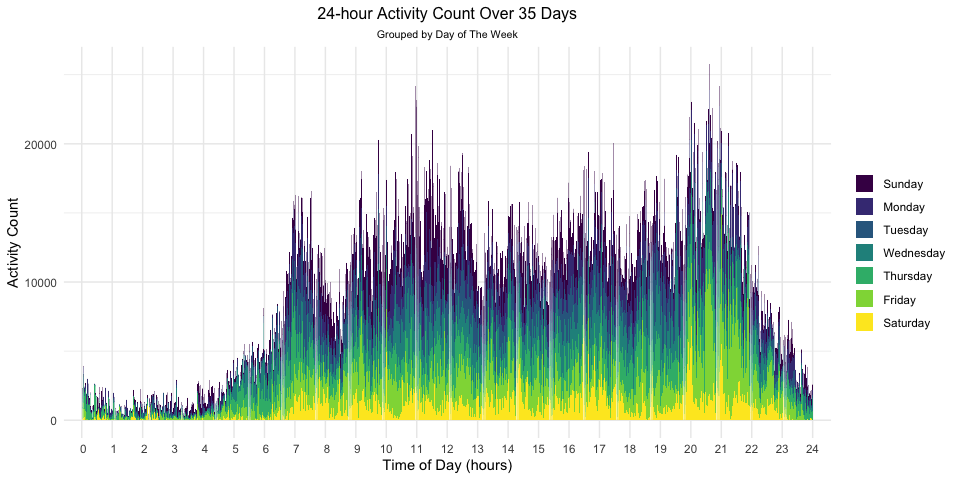
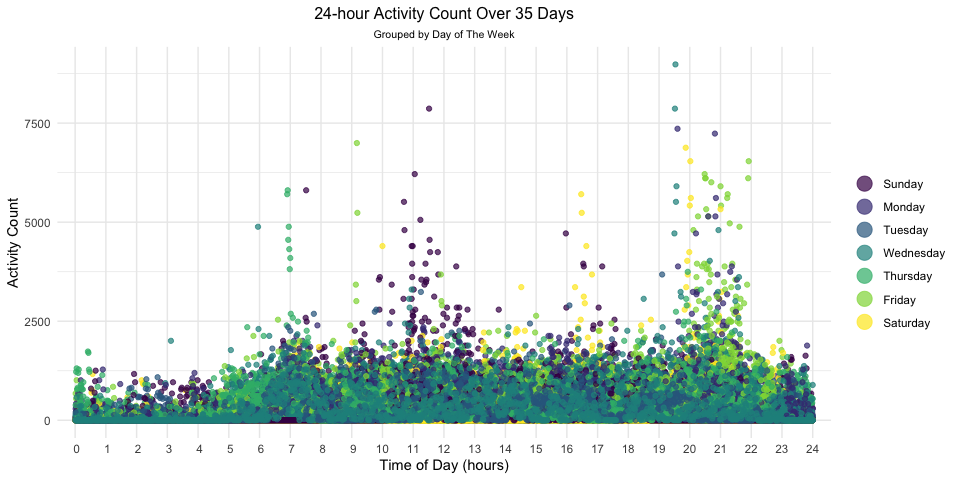
Fixed various issues with problem 3b graph y-axis range and portions which was missed. Final revisions done

diff --git a/p8105_hw3_ksw2137.md b/p8105_hw3_ksw2137.md
@@ -52,10 +52,7 @@ likely of particular importance:
   - `department`: the name of the department (canned goods, snacks,
     frozen, …)
 
-### Problem 1a - Making Graph for Top Aisle Categories
-
-This dataset is huge as indicated previously. As such, we have to filter
-out some things in the interest of efficiency.
+### Problem 1a - Graph of Top Aisle Categories
 
 ``` r
 # modifies source df to further process for ggplot
@@ -77,7 +74,8 @@ the top 39 most ordered categories.
 aisle_item_count %>% 
   filter(aisle_order_count > 10000) %>%                          # filters to contain counts > 10,000
   
-  ggplot(aes(x = reorder(aisle, aisle_order_count),              # make a plot of count vs aisle category
+# make a plot of count vs aisle category
+  ggplot(aes(x = reorder(aisle, aisle_order_count),              # reorders aisle (factor) by using count as ref
              y = aisle_order_count, 
              fill = -aisle_order_count)                          # set fill based on count in decreasing order
          ) +
@@ -105,11 +103,6 @@ to least, we can see a huge gap between the top ~5 versus the rest. In
 the graph, there are a total of 39 items.
 
 ### Problem 1b - Table for Top 3 Items in Particular Aisles
-
-We are also interested in the top 3 items in the “Baking Ingredients”,
-“Dog Food Care”, and “Packaged Vegetables Fruits” categories.
-Similarly, we need to filter our base dataframe to obtain these
-variables of interest.
 
 ``` r
 # filter df to show top 3 of most ordered
@@ -143,16 +136,14 @@ instacart %>%
 | Packaged Vegetables Fruits | Organic Raspberries                           |          5546 |
 | Packaged Vegetables Fruits | Organic Blueberries                           |          4966 |
 
-The table above is a 9 x 3 grid; arranged first by aisle category in
+We are also interested in the top 3 items in the “Baking Ingredients”,
+“Dog Food Care”, and “Packaged Vegetables Fruits” categories. The
+table above is a 9 x 3 grid; arranged first by aisle category in
 alphabetical order then by product count in decreasing order (from 1st -
 3rd). Surprisingly packaged vegetables are, in general, much more
 popular compared to the other two.
 
 ### Problem 1c - Table for Mean Hour-of-Day to Order Certain Products
-
-In this problem, we raise the question “what is the typical time that
-item x gets ordered in day y?”. Particularly, we’re interested in “Pink
-Lady Apples” and “Coffee Ice Cream”. We will also split the time by day.
 
 ``` r
 # filter original table to only show data for selected products
@@ -180,14 +171,16 @@ instacart %>%
 | Coffee Ice Cream | 13.77 | 14.32 | 15.38 | 15.32 | 15.22 | 12.26 | 13.83 |
 | Pink Lady Apples | 13.44 | 11.36 | 11.70 | 14.25 | 11.55 | 12.78 | 11.94 |
 
-Days were hardcoded as `0 - 6` and since it is a US company, I made the
-assumption that these start from Sun - Sat. The resulting table is a 2 x
-7 table that gives the average hour these listed two items are ordered
-by day. Somewhat expected, the orders are typically done in the
-afternoon range. Ice cream orders are possibly (just a guess) due to the
-heat in the afternoon and thus acts as a “chiller” for consumers.
+The table above shows the average hour of day that “Pink Lady Apples”
+and “Coffee Ice Cream” were ordered. Days were hardcoded as `0 - 6` and
+since it is a US company, I made the assumption that these start from
+Sun - Sat. The resulting table is a 2 x 7 table that gives the average
+hour these listed two items are ordered by day. Somewhat expected, the
+orders are typically done in the afternoon range. Ice cream orders are
+possibly (just a guess) due to the heat in the afternoon and thus acts
+as a “chiller” for consumers.
 
-# Problem 2
+# Problem 2 - Exploring and Visualizing BRFSS SMART Data
 
 For this problem, we will be loading the BRFSS (Behavioral Risk Factors
 Surveillance System) data included in the p8105 package. As the data is
@@ -209,26 +202,15 @@ brfss_smart2010 <- brfss_smart2010 %>%
          question, response, data_value) %>%   
   filter(topic == "Overall Health",             # filter df by topic of interest
          response %in%                          # and by specified survey response
-           c("Excellent", 
-             "Very good", 
-             "Good", 
-             "Fair", 
-             "Poor")
+           c("Excellent", "Very good", "Good", "Fair", "Poor")
          ) %>% 
   mutate(                                       # mutates the response variables to factor and re-order as well
     response = 
       factor(response,
-             levels = c("Poor",
-                        "Fair",
-                        "Good",
-                        "Very good",
-                        "Excellent")),
-    county = gsub(".*-", "",                    # removes the state indicator in counties
-                  county),
-    county = gsub(" County", "",                # removes the "county" since column title is county
-                  county)
-    ) %>% 
-  group_by(year, state)                         # group by state and year
+             levels = c("Poor", "Fair", "Good", "Very good", "Excellent")),
+    county = gsub(".*-", "", county),           # removes the state indicator in counties
+    county = gsub(" County", "", county)        # removes the "county" since column title is county
+    )
 ```
 
 The cleaned data contains the key variables that we’re interested to
@@ -254,11 +236,12 @@ state in the year 2002 vs 2010.
 
 ``` r
 # base df
-brfss_count_loc <- brfss_smart2010 %>%                        # assigns a baseline, modified df for further cleaning
+brfss_count_loc <- brfss_smart2010 %>%                 # assigns a baseline, modified df for further cleaning
   select(year, state, county) %>%                      # selects relevant columns
+  group_by(year, state) %>% 
   distinct(county) %>%                                 # removes duplicate counties since we only need uniques
   summarize(county_per_state = n())                    # counts up the number of counties in each state
-
+  
 
 
 # 2002 location count per state
@@ -299,11 +282,11 @@ counties in 2002 and 2010 respectively. Under each state is the number
 of counties within the state that responded. There are more than twice
 states that were part of the respondent in 2010 compared to 2002. We see
 that FL’s counties increased significantly from 7 to 41. We also do not
-see `CT` in the 2010, likely because it had lower participating counties
-in 2010. Interestingly, while working on the table, I noticed that there
-are 49 states in the 2002 data but 51 states in 2010. After
-investigating, this is because Montana (MT) started participating in
-2004 and Virginia (VA) in
+see Connecticut (CT) in the 2010, likely because it had lower
+participating counties in 2010. Interestingly, while working on the
+table, I noticed that there are 49 states in the 2002 data but 51 states
+in 2010. After investigating, this is because Montana (MT) started
+participating in 2004 and Virginia (VA) in
 2007.
 
 ### Problem 2b - Fluctuations in “Excellent” Responses over Time by State
@@ -314,17 +297,15 @@ are ~50 states, our graph will unfortunately look like a “spaghetti”.
 
 ``` r
 # filter out source data for plotting
-spaghetti_plot <- brfss_smart2010 %>% 
+brfss_smart2010 %>% 
   select(year, state, response, data_value) %>%                 # select relevant columns
+  group_by(year, state) %>% 
   filter(response == "Excellent") %>%                           # filter to contain excellent responses only
-  drop_na(data_value) %>%                                       # drop any NA (for states that didn't participate)
-  summarize(avg_data = mean(data_value)) %>%                    # create a new df to include mean # of responses
+  summarize(avg_data = mean(data_value, na.rm = TRUE)) %>%      # create a new df to include mean # of responses
   
 # spaghetti plot for excellent responses
-  ggplot(aes(x = year, y = avg_data,                            # color category by state
-             color = state)
-         ) +   
-  geom_line(size = 1, alpha = 0.8) +                            # thicker line-size for increased visibility
+  ggplot(aes(x = year, y = avg_data, color = state)) +          # color category by state
+  geom_line(size = 1, alpha = 0.8, na.rm = TRUE) +              # thicker line-size for increased visibility
   theme(legend.position = "right") +                            # legend position adjustment
   scale_x_discrete(limits = 2002:2010) +                        # adjust min, max of x-axis range
   guides(color = guide_legend(override.aes = list(size = 5))) + # resize the color code for legends
@@ -334,8 +315,6 @@ spaghetti_plot <- brfss_smart2010 %>%
        y = "Percent of Excellent Response (%)",
        color = "State"
        )
-
-spaghetti_plot
 ```
 
 <img src="p8105_hw3_ksw2137_files/figure-gfm/spaghetti_plot-1.png" style="display: block; margin: auto;" />
@@ -343,34 +322,14 @@ spaghetti_plot
 The resulting line graph above does indeed look like a “spaghetti”.
 However, based on the plot, we can definitely see certain “outliers”.
 For example, there was a significant dip in the response in 2005. Based
-on our color legends, it is likely Wyoming (WY). Evaluating further, the
-state seems to be consistently on the very low end of excellent
-response. This might indicate that the overall health of the population
-there is less than excellent or the citizens might expect too much for
-an “excellent” health. By using `facet_wrap`, we might be able to see
-better separation between states:
+on our color legends, it is likely Wyoming (WY) or West Virginia (WV).
+Evaluating further, the state seems to be consistently on the very low
+end of excellent response. This might indicate that the overall health
+of the population there is less than excellent or the citizens might
+expect too much for an “excellent”
+health.
 
-``` r
-# made a very basic split-by-state plot to better
-# visualize trends
-spaghetti_plot +
-  facet_wrap(~state) +                              # splitting each line graphs by state for clarity
-  labs(title = "Split Line Graphs by State",        # removed title, legends, etc; reduce crowdedness in plot
-       subtitle = "", x = "", y = "") +       
-  theme(legend.position = "none",                   # legends not needed; as graphs are split by state
-        axis.title = element_blank(),               # axis title not needed
-        axis.text = element_blank())                # axis text not needed as well
-```
-
-<img src="p8105_hw3_ksw2137_files/figure-gfm/spaghetti_facet-1.png" style="display: block; margin: auto;" />
-
-After splitting each state, we can actually see that the outlier we saw
-earlier was actually West Virginia (WV). We also noticed that Indiana
-(IN) also has certain dips in its “excellent” response percentage. On
-the other hand Connecticut (CT), DC, and Massachusetts (MA) seem to be
-pretty consistent in their high “excellent” responses.
-
-### Problem 2c - Making plot of responses in NY
+### Problem 2c - Distribution of Responses in NY Counties between 2006 and 2010
 
 In this problem, we are interested in the distribution of each responses
 between the counties in New York (NY) between year 2006 and 2010. As
@@ -409,7 +368,7 @@ scrutiny shows us that New York and Nassau are consistently low in
 poor-good response and consequently high in very good - excellent
 responses.
 
-# Problem 3
+# Problem 3 - Accelerometer Data Wrangling and Visualization
 
 In this problem we are dealing with the accelerometer dataset from an
 elderly man. We shall clean this so we could obtain pertinent
@@ -437,8 +396,7 @@ accel_df <- read_csv("./data/accel_data.csv") %>%
            day != "Sunday" | day != "Saturday" ~ "Weekday"),
          day_type = factor(day_type)                            # changed the week-day/-end to factor
          ) %>% 
-  select(week, day_id, day, day_type, everything()) %>%         # rearrange columns
-  group_by(day_id)                                        # group by week and day_id
+  select(week, day_id, day, day_type, everything())             # rearrange columns
 ```
 
 After cleaning the data, we have a 50400 x 6 table. The rows are
@@ -449,50 +407,44 @@ basically cumulative minutes from 00:00 - 24:00 while the columns are:
   - `day`: day name that starts on Friday
   - `day_type`: weekday vs weekend
   - `minute_mark`: the cumulative minutes from 1 - 1440 (24 hours)
-  - `activity_count`: the amount of activity in the given minute
+  - `activity_count`: the amount of activity in the given
+minute
 
-### Problem 3a - Total Activity Table from Day 1 - 35
+### Problem 3a - Total Daily Activity Table from Week 1 - 5 by Day of The Week
 
 In this problem, we will be adding up all activity count for each day
 and create a table for the 35 days and see the total daily activity
 counts.
 
 ``` r
-daily_activ <- accel_df %>% 
+accel_df %>% 
   select(week, day_id, day, activity_count) %>%             # select relevant columns
-  summarize(daily_activ_count = sum(activity_count)) %>%    # sums up the activity counts
-  pivot_wider(names_from = day_id,                          # turn it in form of day 1-35 so kable() can split
+  group_by(week, day) %>%                                   # group by week and day
+  summarize(daily_activ_count = sum(activity_count)) %>%    # sums up the activity counts per day per week
+  pivot_wider(names_from = day,                             # turn into reader-friendly form
               values_from = daily_activ_count
-              )
-
-knitr::kable(                                               # prints out table split by weeks
-  list(wk1 = head(daily_activ)[1:7],
-       wk2 = head(daily_activ)[8:14],
-       wk3 = head(daily_activ)[15:21],
-       wk4 = head(daily_activ)[22:28],
-       wk5 = head(daily_activ)[29:35])
-  )
+              ) %>%                                         
+  rename("Week" = week) %>% 
+  knitr::kable()                                            # prints the table
 ```
 
-|        1 |        2 |      3 |      4 |        5 |        6 |      7 |
-| -------: | -------: | -----: | -----: | -------: | -------: | -----: |
-| 480542.6 | 78828.07 | 376254 | 631105 | 355923.6 | 307094.2 | 340115 |
+| Week | Sunday |    Monday |  Tuesday | Wednesday | Thursday |   Friday | Saturday |
+| ---: | -----: | --------: | -------: | --------: | -------: | -------: | -------: |
+|    1 | 631105 |  78828.07 | 307094.2 |    340115 | 355923.6 | 480542.6 |   376254 |
+|    2 | 422018 | 295431.00 | 423245.0 |    440962 | 474048.0 | 568839.0 |   607175 |
+|    3 | 467052 | 685910.00 | 381507.0 |    468869 | 371230.0 | 467420.0 |   382928 |
+|    4 | 260617 | 409450.00 | 319568.0 |    434460 | 340291.0 | 154049.0 |     1440 |
+|    5 | 138421 | 389080.00 | 367824.0 |    445366 | 549658.0 | 620860.0 |     1440 |
 
-|      8 |      9 |     10 |     11 |     12 |     13 |     14 |
-| -----: | -----: | -----: | -----: | -----: | -----: | -----: |
-| 568839 | 295431 | 607175 | 422018 | 474048 | 423245 | 440962 |
-
-|     15 |     16 |     17 |     18 |     19 |     20 |     21 |
-| -----: | -----: | -----: | -----: | -----: | -----: | -----: |
-| 467420 | 685910 | 382928 | 467052 | 371230 | 381507 | 468869 |
-
-|     22 |     23 |   24 |     25 |     26 |     27 |     28 |
-| -----: | -----: | ---: | -----: | -----: | -----: | -----: |
-| 154049 | 409450 | 1440 | 260617 | 340291 | 319568 | 434460 |
-
-|     29 |     30 |   31 |     32 |     33 |     34 |     35 |
-| -----: | -----: | ---: | -----: | -----: | -----: | -----: |
-| 620860 | 389080 | 1440 | 138421 | 549658 | 367824 | 445366 |
+In the table above, we see that there is no real patterns to be seen if
+we go from week 1-5 day-by-day. However, if we look through each column
+of days, we see that this person’s activities on Sunday has been
+decreasing consistently. His weekdays are generally very active with
+spikes in Monday - week 3 and Friday - week 5. Anomalies of much lower
+activities include Monday - week 1, Friday - week 4, Saturday - week 4,
+and Saturday - week 5. Since Saturday seem to have same numbers, this
+likely represents times where the person did not wear the tracker, which
+may also be the case for other, significantly low activities.
 
 ### Problem 3b - Activity Tracking over 35 Days
 
@@ -501,38 +453,30 @@ behavior for each day of the week. We will make an “activity” graph to
 hopefully find some patterns in his daily activities.
 
 ``` r
-base_accel_plot <- accel_df %>% 
+accel_df %>% 
   ungroup() %>%                                                     # ungroup so select() works
-  select(day_id, day, minute_mark, activity_count) %>%              # select relevant variables
-  group_by(day_id) %>%                                              # re-group by relevant variables
-  ggplot(aes(x = minute_mark/60, y = activity_count, fill = day)) + # make a 24-hour plot with days as factor
-  geom_bar(stat = "identity", alpha = 1, size = 5) +                # make bar plots
+  select(week, day_id, day, minute_mark, activity_count) %>%        # select relevant variables
+  ggplot(aes(x = minute_mark/60, y = activity_count,                # make a 24-hour plot with days as factor
+             fill = day)) +
+  geom_point(aes(color = day), alpha = 0.7) +
+  guides(color = guide_legend(override.aes = list(size = 5))) +
   theme(legend.position = "right") +                                # adjust legend position
   scale_x_discrete(limits = 0:24) +                                 # re-organize the x-labels
   labs(title = "24-hour Activity Count Over 35 Days",               # add labels to title, axes, etc
        subtitle = "Grouped by Day of The Week",
        x = "Time of Day (hours)",
        y = "Activity Count",
-       fill = ""
+       fill = "",
+       color = ""
        )
-
-base_accel_plot
 ```
 
 <img src="p8105_hw3_ksw2137_files/figure-gfm/daily_accel_plot-1.png" style="display: block; margin: auto;" />
 
-The graph above definitely shows a typical pattern of a person that
-wakes up at 06:00, and goes to sleep at ~23:00 - 24:00. This is apparent
-by his increased activity around 06:00 and decrease closer to 24:00.
-Interestingly, his activity seems to highest around 11:00 and 21:00
-across the days. If we do `facet_grid()` however, we could get a more
-granular pattern.
-
-``` r
-base_accel_plot +
-  facet_grid(day ~ .) +                    # split by day horizontally
-  theme(legend.position = "none",          # removed legends as it is split by day 
-        axis.title.y  = element_blank())   # removes y axes title; interested in relative ratio between days only
-```
-
-<img src="p8105_hw3_ksw2137_files/figure-gfm/unnamed-chunk-2-1.png" style="display: block; margin: auto;" />
+From the graph, we could see a gradual increase in activity count from
+06:00 (likely waking up) with peaks at ~11:00 and ~21:00 primarily
+Fridays - Sundays. These are likely events where the person reaches the
+weekend and is going out for lunch/dinner outside home. Activities
+gradually declined again from ~21:00 which likely signifies the person
+going to sleep. However, similar to the spaghetti plot, this graph is
+too noisy to discern any further patterns.
